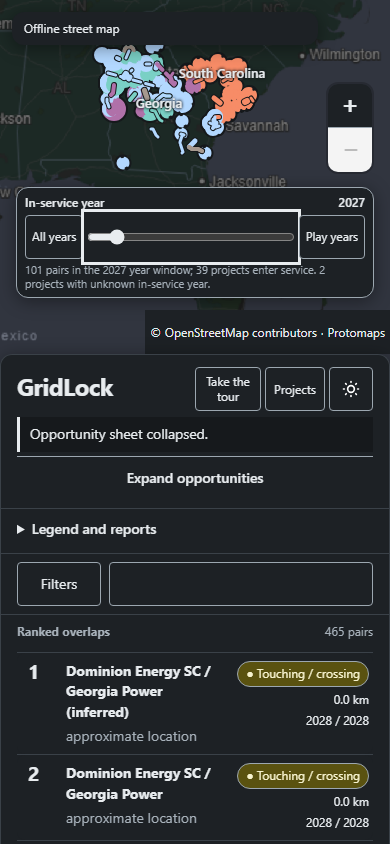
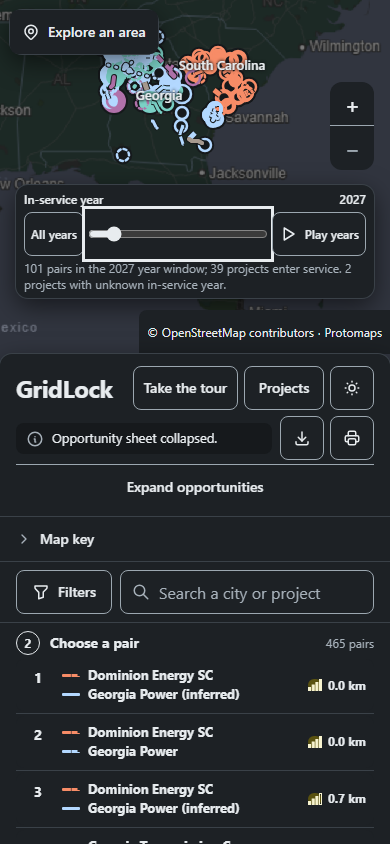
Integration fixes after merging the UI pass with the three Codex features
The full VERIFY on the merged branch found real clashes between branches
that each passed alone:
- Start here sat outside the UI pass's slot. On phones it pushed the list
  below the fold, and it shifted the page when it filled in (CLS 0.13-0.17
  against the 0.1 contract). It now lives in #start-here-slot, which the
  phone peek folds away, as one row of short chips ("Rincon · 6") whose
  full names stay in the accessible name. The row's 44 px height is
  reserved from the first paint, and it steps aside while an area is open
  or being restored.
- The area-mode button covered the timeline's Play control on phones; it
  now uses the free top-left corner there and moves if the layout changes.
- The tracker chip looked for a row element the UI pass removed; it now
  sits on the row's number line.
- The page and its modules are served with Cache-Control: no-cache, so an
  updated checkout never runs stale scripts from the browser cache.

Re-runs: the previously failing tour, audit, t43, insights, area, tracker,
project-detail and modern-map files pass (one tour test flaked once under
load, then passed 3/3). API 170 pass.

diff --git a/web/index.html b/web/index.html
@@ -167,7 +167,13 @@
           <p id="search-state" class="search-state" data-testid="search-state" role="status">Enter at least 2 characters to search local plans.</p>
           <p id="search-selection" class="search-selection" data-testid="search-selection" hidden></p>
           <button id="explore-area" class="explore-button" type="button" hidden>Explore this area</button>
-          <div id="start-here-slot" class="insight-slot"></div>
+          <!-- In the UI pass's slot: after "Explore this area" for keyboard order, and folded away in the phone peek. -->
+          <div id="start-here-slot" class="insight-slot">
+            <section id="start-here" class="start-here" aria-labelledby="start-here-heading">
+              <h2 id="start-here-heading">Start here: places with the most close pairs</h2>
+              <div id="start-here-places" class="start-here-places"></div>
+            </section>
+          </div>
           <p id="area-selection" class="area-selection" data-testid="area-selection" role="status" hidden></p>
           <section id="area-panel" class="area-panel" aria-labelledby="area-heading" hidden>
             <div class="area-heading"><h2 id="area-heading">Selected area</h2><button id="area-clear" type="button">Clear area</button></div>
@@ -184,11 +190,6 @@
               <details><summary>Projects in area</summary><ul id="area-projects"></ul></details>
               <details><summary>Overlaps with a project in area</summary><ol id="area-overlaps"></ol></details>
             </div>
-          </section>
-          <!-- After the search status, "Explore this area" and the area panel, so search then Tab still reaches them first. -->
-          <section id="start-here" class="start-here" aria-labelledby="start-here-heading" hidden>
-            <h2 id="start-here-heading">Start here</h2>
-            <div id="start-here-places" class="start-here-places"></div>
           </section>
         </section>
         <section id="opportunities" class="opportunities" aria-labelledby="opportunities-heading" tabindex="-1">

diff --git a/web/css/insights.css b/web/css/insights.css
@@ -1,7 +1,10 @@
 .start-here { margin-top: 12px; }
-.start-here h2 { margin: 0 0 8px; font-size: 14px; }
-.start-here-places { display: flex; flex-wrap: wrap; gap: 8px; }
-.start-here-places button { min-height: 44px; max-width: 100%; padding: 8px 12px; border: 1px solid var(--rule-strong); border-radius: var(--radius-control); background: var(--panel); color: var(--ink); font: inherit; font-size: 13px; text-align: left; overflow-wrap: anywhere; cursor: pointer; }
+.start-here h2 { margin: 0 0 6px; font-size: 13px; }
+/* One row of short chips, its height reserved from the first paint, so filling it never moves the list. */
+.start-here-places { display: flex; flex-wrap: nowrap; gap: 8px; min-height: 44px; overflow-x: auto; padding-bottom: 2px; scrollbar-width: thin; }
+.start-here-places button { flex: none; min-height: 44px; padding: 8px 12px; border: 1px solid var(--rule-strong); border-radius: var(--radius-control); background: var(--panel); color: var(--ink); font: inherit; font-size: 13px; white-space: nowrap; cursor: pointer; }
+/* While an area is open or being restored, the shortcuts step aside for the area panel. */
+:root[data-area-layout] #start-here, .search-region:has(#area-panel:not([hidden])) #start-here { display: none; }
 .start-here-places button:hover { background: var(--canvas); }
 .start-here-places button:focus-visible { outline: 3px solid var(--focus); outline-offset: 2px; }
 .impact-card { margin: 0 0 12px; padding: 10px 12px; border: 1px solid var(--rule); border-radius: var(--radius-control); background: var(--canvas); color: var(--ink); font-size: 13px; line-height: 1.45; }

diff --git a/web/js/start-here.js b/web/js/start-here.js
@@ -1,5 +1,10 @@
 // Places where the loaded plans have the most close pairs.
 
+// A short chip ("Rincon · 6") keeps the row to one line; the full place name stays in the accessible name.
+export function shortPlace(label) {
+  return String(label ?? "").replace(/\s+(city|town|CDP|village)$/i, "");
+}
+
 export function renderStartHere(hotspots) {
   const region = document.getElementById("start-here");
   const places = document.getElementById("start-here-places");
@@ -8,7 +13,9 @@ export function renderStartHere(hotspots) {
     const button = document.createElement("button");
     button.type = "button";
     button.dataset.src = "hotspots";
-    button.textContent = `${place.label} · ${place.pairs} close pairs`;
+    button.textContent = `${shortPlace(place.label)} · ${place.pairs}`;
+    button.title = `${place.label}: ${place.pairs} close pairs`;
+    button.setAttribute("aria-label", `${place.label}, ${place.pairs} close pairs`);
     button.addEventListener("click", () => {
       document.dispatchEvent(new CustomEvent("gridlock:explore-place", {
         detail: { place, entry: button },

diff --git a/web/js/area.js b/web/js/area.js
@@ -60,7 +60,10 @@ export function createAreaController(map, announce, setAreaURL) {
   let requestNumber = 0;
   let controller = null;
   let areaMode = false;
-  const areaControl = L.control({ position: "topright" });
+  // On phones the year slider sits under the top-right controls, so the button uses the free top-left corner.
+  const phoneLayout = matchMedia("(max-width: 700px)");
+  const areaControl = L.control({ position: phoneLayout.matches ? "topleft" : "topright" });
+  phoneLayout.addEventListener?.("change", (event) => areaControl.setPosition(event.matches ? "topleft" : "topright"));
   areaControl.onAdd = () => {
     const container = L.DomUtil.create("div", "leaflet-control-area");
     const button = L.DomUtil.create("button", "", container);

diff --git a/web/js/tracker.js b/web/js/tracker.js
@@ -111,7 +111,8 @@ function decorateRows() {
     const chip = document.createElement("span");
     chip.className = "tracker-chip";
     chip.textContent = entry.status;
-    row.querySelector(".row-flags")?.append(chip);
+    // The row's number line (distance, years) is visible in every layout, so the status sits with it.
+    (row.querySelector(".row-metric") ?? row.querySelector(".overlap-button") ?? row).append(" ", chip);
   }
 }
 

diff --git a/tests/e2e/test_insights.py b/tests/e2e/test_insights.py
@@ -30,11 +30,20 @@ def test_start_here_and_impact_follow_api_and_pass_axe(live_server, width, heigh
         page.add_init_script(f"localStorage.setItem('gridlock-theme', '{theme}')")
         page.goto(live_server)
         hotspots = page.request.get(f"{live_server}/api/meta").json()["hotspots"]
+        if width <= 700:
+            # The phone peek folds Start here away; it appears once the sheet is expanded.
+            expect(page.locator("#start-here")).to_be_hidden()
+            page.locator("#sheet-toggle").click()
         buttons = page.locator("#start-here button")
         expect(buttons).to_have_count(len(hotspots))
+        tops = set()
         for button, place in zip(buttons.all(), hotspots):
-            expect(button).to_have_text(f"{place['label']} · {place['pairs']} close pairs")
+            short = place["label"].rsplit(" ", 1)[0] if place["label"].split()[-1] in {"city", "town", "CDP", "village"} else place["label"]
+            expect(button).to_have_text(f"{short} · {place['pairs']}")
+            expect(button).to_have_accessible_name(f"{place['label']}, {place['pairs']} close pairs")
             assert button.evaluate("element => element.getBoundingClientRect().height") >= 44
+            tops.add(round(button.evaluate("element => element.getBoundingClientRect().top")))
+        assert len(tops) == 1, "the chips stay on one row"
         pairs = page.request.get(f"{live_server}/api/overlaps").json()
         expect(page.locator("#impact-line")).to_have_text(expected_impact(pairs))
         buttons.first.click()

diff --git a/tests/api/test_core.py b/tests/api/test_core.py
@@ -112,6 +112,14 @@ def test_security_headers_on_success_and_error(client: TestClient) -> None:
         assert "access-control-allow-origin" not in response.headers
 
 
+def test_page_and_modules_are_revalidated_so_updates_never_run_stale(client: TestClient) -> None:
+    for path in ("/", "/web/js/app.js", "/web/css/app.css"):
+        response = client.get(path)
+        assert response.status_code == 200, path
+        assert response.headers["cache-control"] == "no-cache", path
+    assert "cache-control" not in client.get("/api/health").headers
+
+
 def test_startup_refuses_missing_and_invalid_artifacts(artifacts: Path) -> None:
     (artifacts / "meta.json").unlink()
     with pytest.raises(RuntimeError, match="meta.json"):

diff --git a/server/app.py b/server/app.py
@@ -349,6 +349,9 @@ def create_app(artifact_dir: Path | None = None, settings: Settings | None = Non
         if request.url.path == "/api/map-config":
             response.headers["Cache-Control"] = "no-store"
             response.headers["Cross-Origin-Resource-Policy"] = "same-origin"
+        elif request.url.path == "/" or request.url.path.startswith("/web/"):
+            # Revalidate the page and its modules on every load, so an updated checkout never runs stale code.
+            response.headers["Cache-Control"] = "no-cache"
         return response
 
     @app.exception_handler(RequestValidationError)
